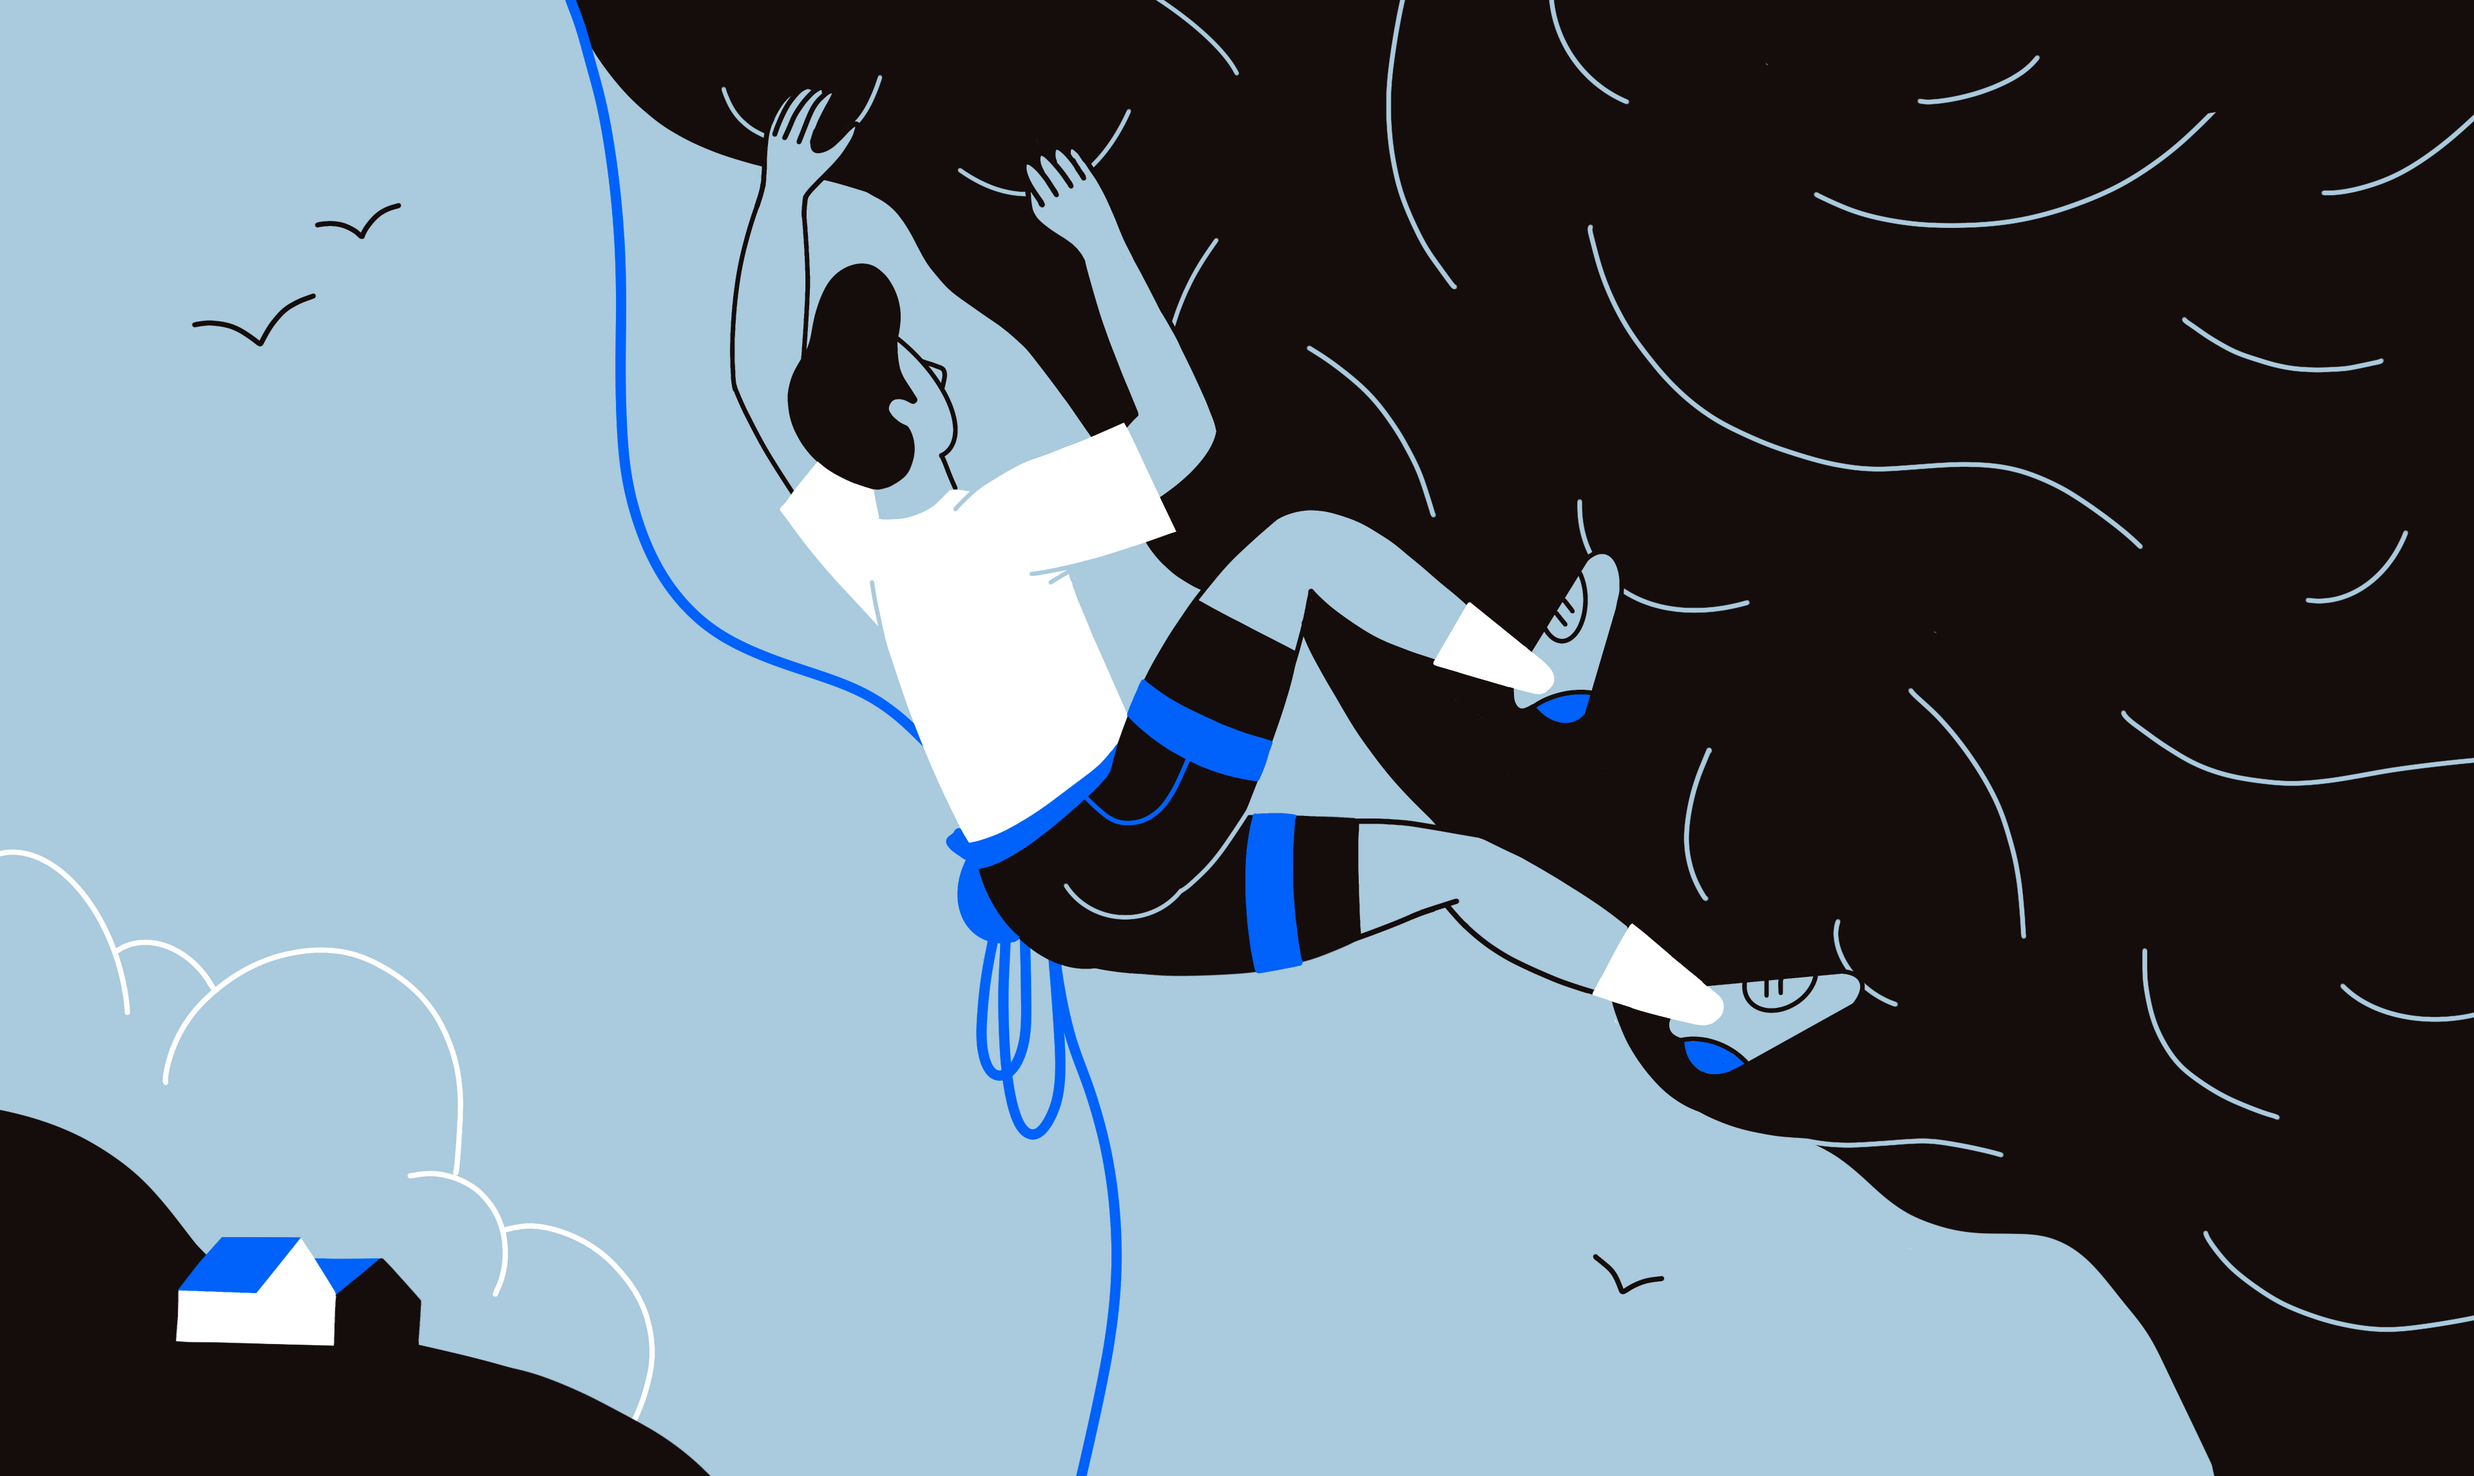
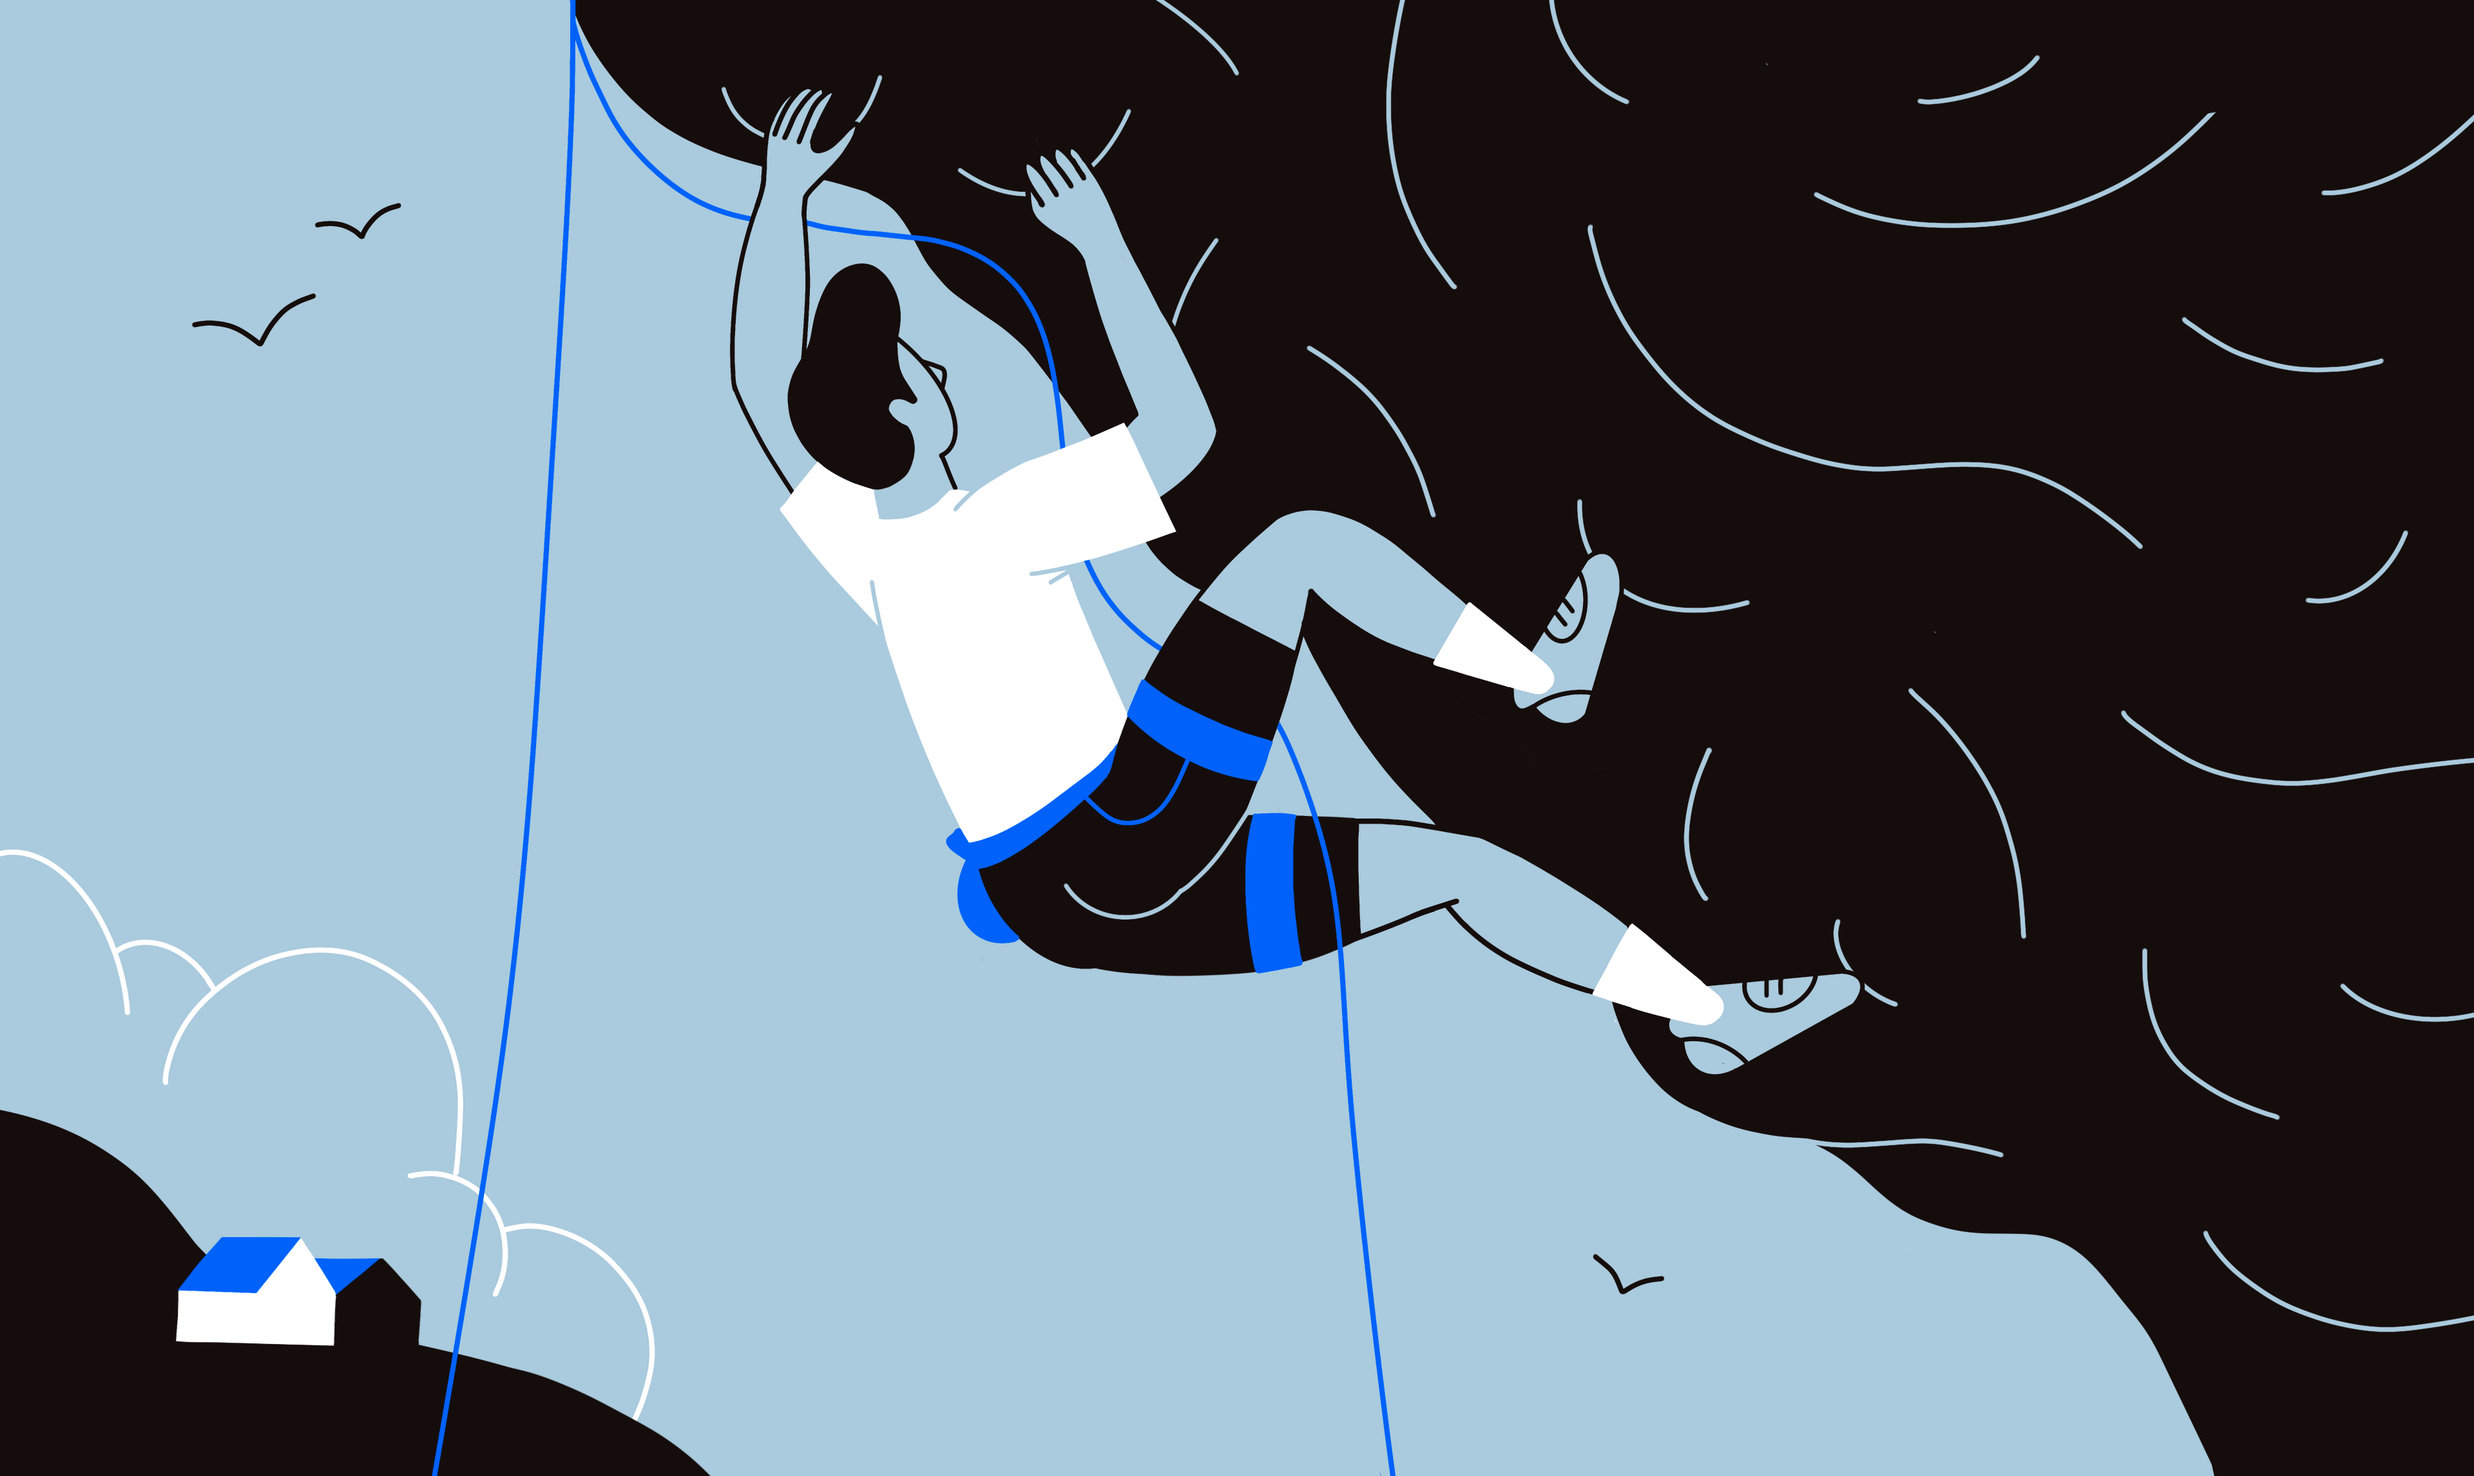
Добавляет картинку в статью «Хранение по ссылке» (#594)
* обновить иллюстрацию к try...catch

* добавить иллюстрацию к «хранение по ссылке»

diff --git a/src/posts/js/long/ref-type-vs-value-type.md b/src/posts/js/long/ref-type-vs-value-type.md
@@ -6,6 +6,10 @@ co-authors:
 designers:
 contributors:
 summary:
+  - reference
+  - value
+cover:
+  desktop: '/assets/images/posts/ref-type-vs-value-type/cover.png'
 ---
 
 ## Кратко
